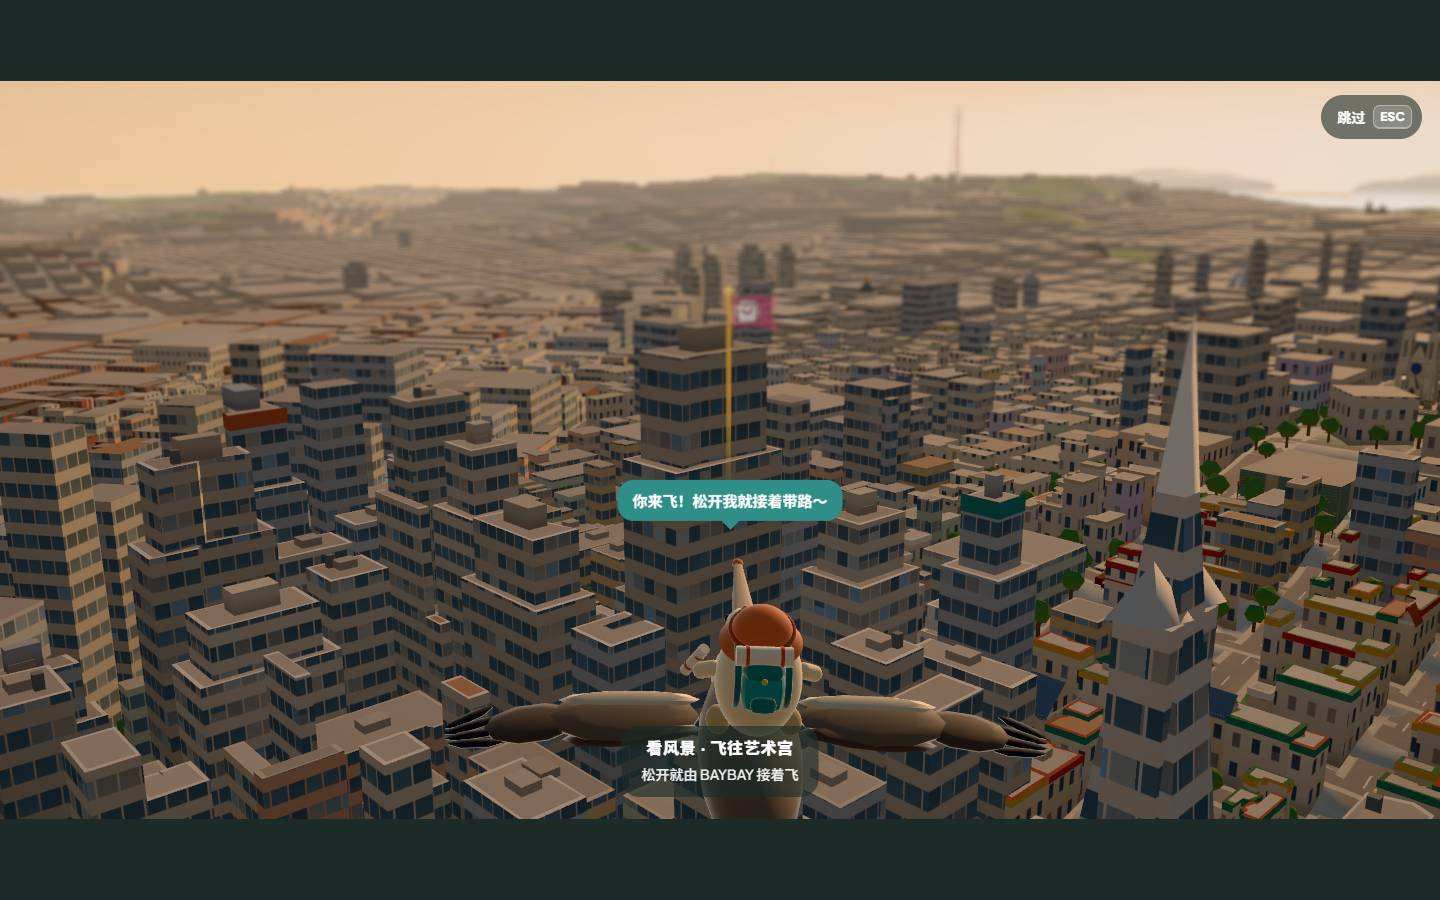
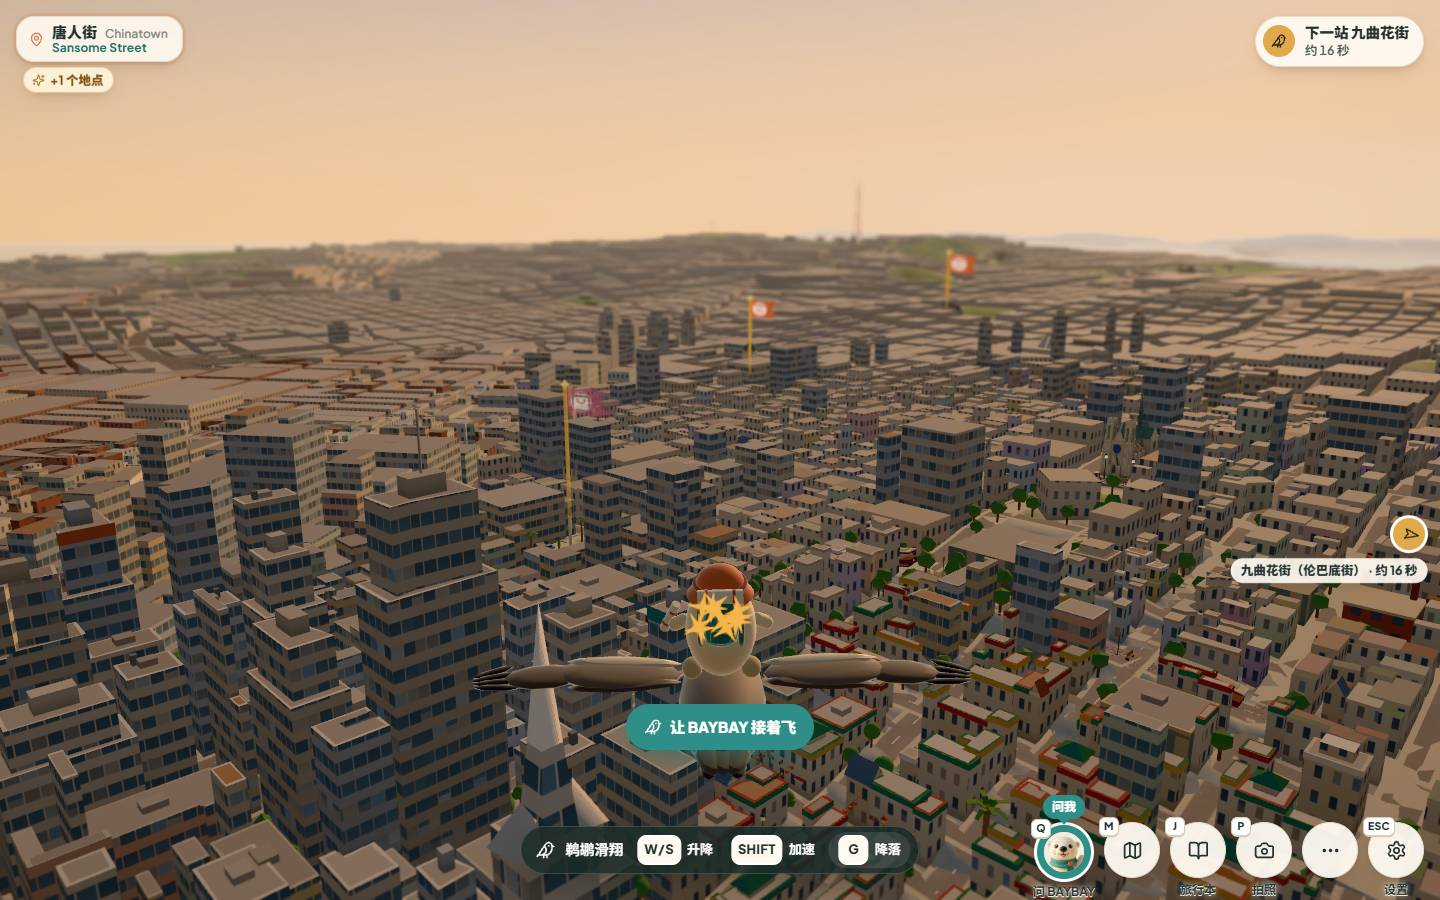
W5-N (part c): report — the scenic flight rides lane F's auto-glide (what was built, evidence on phone and desktop with the takeover chip, decisions, gaps, requests updated), the CP-1 clear-side follow-up; the N9 shots retaken on lane F's glide

diff --git a/docs/opus-bay/sf-w5-N.md b/docs/opus-bay/sf-w5-N.md
@@ -362,8 +362,8 @@ Worktree `C:/Users/willy/wt/w5-n` (branch `w5-n`), dev port 5502, scratch `C:/Us
 
 ### 给主人的摘要
 
-1. 中期检查给 N 线的 4 个问题都修好了：BAYBAY 自动带路时，如果你被推着贴在一辆等你让路的电车旁边（检查时卡了两分半），现在 1 秒后会自己往路边让一步，车开走再接着走；手机地图点地点不会再误开 OpenStreetMap 网页；Fort Point 和野牛围场的终点换到了能走动的地方；左上角地名不再夹英文（「探索馆 · 15 号码头」「科伊特塔 · 电报山」），没有中文名的新地点显示「+1 个地点」。
-2. 新功能「看风景飞过去」：拿到鹈鹕后，150–900 单位远的地方，地图卡片「其他方式」里在「飞过去」下面多一行（渡轮大厦到九曲花街约 25 秒，到艺术宫约 45 秒）。鹈鹕在城市上空低飞、镜头在身后；碰摇杆（电脑按方向键）就自己开，松手 2.5 秒 BAYBAY 接着带，最后稳稳降落在目的地。电脑上按 G 可以就地降落，剩下的路 BAYBAY 带你走；「跳过」就直接快速飞到。原来一键「飞过去」照旧是推荐。
+1. 中期检查给 N 线的 4 个问题都修好了：BAYBAY 自动带路时，如果你被推着贴在一辆等你让路的电车旁边（检查时卡了两分半），现在 1 秒后会自己往路边让一步（避开旁边另一辆车），车开走再接着走；手机地图点地点不会再误开 OpenStreetMap 网页；Fort Point 和野牛围场的终点换到了能走动的地方；左上角地名不再夹英文（「探索馆 · 15 号码头」「科伊特塔 · 电报山」），没有中文名的新地点显示「+1 个地点」。
+2. 新功能「看风景飞过去」：拿到鹈鹕后，150–900 单位远的地方，地图卡片「其他方式」里在「飞过去」下面多一行（渡轮大厦到九曲花街约 25 秒，到艺术宫约 45 秒）。用的是 F 线做好的「鹈鹕自动滑翔」：真正在城市上空低飞，画面、按钮都和平时滑翔一样；碰摇杆（电脑按方向键）就自己开，屏幕上出现「让 BAYBAY 接着飞」，点一下她就接着带；随时可以按「降落」。落地后 BAYBAY 把最后几步带你走到景点。原来一键「飞过去」照旧是推荐。
 3. 顺带接上了 L 线整理的 4 个景点到达点（野牛围场、Buena Vista 公园、Sutro Heights、Seward 滑梯）。自动检查 158 个终点和到达点，卡住的从 3 个降到 1 个（奥布莱恩号，实机能走）。
 4. 手机（390 × 844）和电脑（1440 × 900）都实际跑过、截图看过；测试全部通过（偶尔有一个大家都知道的"机器忙时计时偏慢"的测试失败，单独跑通过）。
 5. 没做：可选的「陪 BAYBAY 散步过去」（要 E 线先给出"今天还没捡的金币小路"的接口，已写在请求里）。
@@ -379,10 +379,11 @@ Worktree `C:/Users/willy/wt/w5-n` (branch `w5-n`), dev port 5502, scratch `C:/Us
   aside (`AutoState.yielding`), BAYBAY says **有车来，我们先让一让～** once, and the walk waits until no vehicle is within
   `YIELD_CLEAR_R` 7 u (at least `YIELD_MIN_MS` 1.5 s, at most `YIELD_MAX_MS` 20 s: a long dwell is walked past), then
   re-issues the leg; the retry counter is not touched meanwhile; the stick is a takeover as ever.
-- `yieldSpot(player, car, stand, toward)`: straight across the car's axis to `YIELD_SIDE` 4.5 u (clear of its 1.4 u
-  band and of the neighbouring track, ≤ 3.8 u apart), on the player's own side when pressed against the body, on the
-  walk's side when clear ahead of the nose (`YIELD_BODY_CLEAR` 5.4 u), else the other side, else nothing (the old
-  behaviour).
+- `yieldSpot(player, car, stand, toward, side, clear)`: straight across the car's axis to `YIELD_SIDE` 4.5 u (clear of
+  its 1.4 u band and of the neighbouring track, ≤ 3.8 u apart), on the player's own side when pressed against the body,
+  on the walk's side when clear ahead of the nose (`YIELD_BODY_CLEAR` 5.4 u), else the other side; a side whose spot
+  keeps `YIELD_OTHER_CLEAR` 2.6 u from every other vehicle's body axis (`vehicleAxisDist`) first — found on Powell St,
+  where the carried walk got squeezed between a waiting cable car and one at its stop on the other track.
 - `tripRun.lineVehicles()` reads every running line vehicle's pose and `held` (cable cars, F-line cars, the sightseeing
   buses, the Metro trains' cars) through `data/transit.ts`; `vehicleYield()` picks the one waiting longest within 24 u.
 
@@ -416,43 +417,42 @@ Worktree `C:/Users/willy/wt/w5-n` (branch `w5-n`), dev port 5502, scratch `C:/Us
 
 **Lane F's request** (`game/hudLayout.ts`): lane A's `.ob-play-result` and `.ob-play-flight` are HUD boxes.
 
-**W5-N9 · 看风景飞过去, the scenic auto-glide** (should; `game/scenicTrip.ts` new, `game/scenicFlight.ts` new,
-`game/fastTravel.ts`, `game/tripRun.ts`, `ui/PlaceActions.tsx`, `ui/tripRows.ts`, `ui/TripOptions.tsx`)
-- The option (`scenicTrip.ts`, tiny and pure): for 150–900 u once the pelican is unlocked, `withScenic` puts a scenic
-  twin right after the fast 飞过去 in the card's 其他方式 / 换个方式 rows — **看风景飞过去 · 低空慢慢飞 · 能自己开**; never
-  推荐, never a goal (a fly row); not counted in the four rows (`orderOptions`), its own React key. Honest time
-  `scenicSeconds(d)` = pickup 0.8 + rise 1.0 + d / 18.5 + landing 2.6 (measured: Ferry → Lombard 360 u in 22.5 s,
-  quoted 约 25 秒; Ferry → the Palace 712 u in 41 s, quoted 约 45 秒). A scenic leg is a `TripFlyLeg` with `scenic: true`
-  (a structural extension: the frozen trip types are untouched).
-- The flight (`scenicFlight.ts`, loaded with the trip runner): `ScenicFlight` flies a `GlideSim` (lane F's flight model:
-  the soft floor over the roofs, the tall structures, the model's edge, the soft boxes) with `scenicPilot` (bank toward
-  the destination, hold `scenicHeight` = soft floor + 14 and ≥ 30 over the ground, lower on the approach; boost on the
-  straight, slow near the end) or with the player's controls: any stick / WASD / pad move flies it (BAYBAY: **你来飞！松开
-  我就接着带路～** once), letting go hands it back after 2.5 s; the caption's second line follows who flies and the device
-  (碰摇杆自己飞 / 方向键自己飞 · G 就地降落 / 松开就由 BAYBAY 接着飞). The camera is the glide rig's framing (14 u behind,
-  pitch 0.3, 10 u ahead), carried by the pelican and eased. Within 45 u of a streamed destination it asks to land; not
-  streamed: it circles up to 8 s, then lands anyway; a destination it cannot reach (a soft box) goes the fast way.
-- The seam (`fastTravel.ts`, the main graph's only growth): `startTravel(dest, scenic?: ScenicDriver)`; the pickup and
-  the rise are the fast hop's (the rise closes on the chase camera); the driver's poses and camera between; the landing
-  is a curve from the pelican onto the arrival spot (`arrivalSpot`, the level guard, `landingHeading`, first sights and
-  `faceOpen` as before; 2–3.2 s); G lands where the pelican is (`landAt`); 跳过 / Esc and the give-up take the fast hop
-  through the cloud; `travelIsScenic()` and the pose's `roll` for lane F.
-- The trip runner: a scenic leg starts `new ScenicFlight(...)` (BAYBAY: **抓紧！我们低低地飞，看看风景～**); a flight that
-  lands farther than `FLY_END_R` 60 u from its leg's end turns the rest into a carried walk (**就在这儿降落啦，我们走过去！**).
+**W5-N9 · 看风景飞过去, the scenic auto-glide** (should, "with F"; `game/scenicTrip.ts` new, `game/tripRun.ts`,
+`game/guideCity.ts`, `ui/PlaceActions.tsx`, `ui/tripRows.ts`, `ui/TripOptions.tsx`, `ui/GoChip.tsx`, `ui/GuideLayer.tsx`)
+- The option (`scenicTrip.ts`, tiny and pure): for 150–900 u (inside lane F's `AUTO_GLIDE` 60–900) once the pelican is
+  unlocked, `withScenic` puts a scenic twin right after the fast 飞过去 in the card's 其他方式 / 换个方式 rows —
+  **看风景飞过去 · 低空慢慢飞 · 能自己开**; never 推荐, never a goal (a fly row); not counted in the four rows
+  (`orderOptions`), its own React key. Honest time `scenicSeconds(d)` = take-off 1 + d / 18.5 + landing 2.5 + the last
+  steps 1.5; a scenic leg is a `TripFlyLeg` with `scenic: true` (a structural extension: the frozen trip types are
+  untouched); the pill counts the flight down from the pelican (`scenicSecondsLeft`, through `legSecondsLeft`: one ETA
+  source).
+- The flight is lane F's W5-F10 `moveApi.autoGlide(to, { onEnd })`, which landed while this part ran: the real glide
+  (its flight model over the roofs, its camera, the HUD with 降落, the pelican's bank), lane F's lines (抓稳，飞咯！ ·
+  坐稳啦～想自己飞，动一下就接管 · 好，你来飞！), a stick push hands the wings over, it lands about 10–20 u out facing open
+  ground.
+- The trip runner: a scenic leg asks `autoGlide` for the leg's end (no N line on top of lane F's two); while lane F's
+  auto-glide flies, or the player glides on after taking the wings, the leg waits; back on foot, within `END_R` it
+  arrived, else BAYBAY walks the rest carried — quietly after lane F's landing, with **就在这儿降落啦，我们走过去！** from a
+  landing more than `FLY_END_R` 60 u away. A take-off refused (the glide locked, out of range) or cancelled before it
+  happens (a dialogue opened) takes the fast hop; 结束 / skip / a replan hand the wings to the player (`cancelAutoGlide`).
+- 让 BAYBAY 接着飞: while the player glides on a scenic flight's taken wings, the go chip (`ui/GoChip` `fly`) offers it;
+  one tap asks lane F's auto-glide again from where the pelican is (`resumeScenicGlide`).
+- Earlier in this part N had built its own driver (a GlideSim flown inside the fast hop's cinematic, with a seam in
+  `game/fastTravel.ts`); once lane F's hook landed that went (its two W5-N9 commits stay in the history; the "rides lane F's auto-glide" commit supersedes them):
+  one auto-glide in the game, `fastTravel.ts` back to origin's, the main graph does not grow for N9.
 
 ### Evidence
 
 - Checks (the structured output has the hashes after the last rebase): `npx tsc -p tsconfig.app.json --noEmit` 0 ·
   `npx eslint .` 0 errors (43 old warnings outside `src/opus-bay`) · `npx tsx --tsconfig tsconfig.app.json --test
-  tests/opus-bay-*.test.ts`: 1228 / 1228 before the first push, 1232 / 1232 on the rebased checkpoint push, 1240 / 1240
-  with W5-N9; on lane V's `cef43f9` 1254 / 1255 — the one failure is lane F's wall-clock assert "a cached cell is cheap"
-  (sf-move2 E2-5), 24 / 24 alone; the final run is in the structured output. `tests/opus-bay-w5-nav.test.ts` 46 → 61:
-  CP-1 (the spot, the reducer's step-aside and wait, the vehicle pick), CP-2 (gesture targets, the credit guard, the
-  wiring), CP-7 (radius, facing, coins, the site arrivals), CP-13 (zh names, the district untouched, the chip), the HUD
-  boxes; W5-N9 (the option, the rows, the autopilot, the flight on a synthetic world with a block of 40 u roofs — never
-  under 4 u over them —, the streaming wait, the takeover and hand-back, G, the soft-box give-up, the trip through the
-  seam with the landing and the lock let go, the bank and `travelIsScenic`, skip, the runner's walk after a far
-  landing). `sf-attractions` / `sf-places` updated for the moved rows.
+  tests/opus-bay-*.test.ts`: 1228 / 1228 before the first push, 1232 / 1232 on the rebased checkpoint push; the final run
+  is in the structured output (lane F's wall-clock assert "a cached cell is cheap", sf-move2 E2-5, failed once under
+  load and passes alone 24 / 24). `tests/opus-bay-w5-nav.test.ts` 46 → 56: CP-1 (the spot, the clear side between two
+  cars, the reducer's step-aside and wait, the vehicle pick), CP-2 (gesture targets, the credit guard, the wiring), CP-7
+  (radius, facing, coins, the site arrivals), CP-13 (zh names, the district untouched, the chip), the HUD boxes; W5-N9
+  (the option inside AUTO_GLIDE, the rows, the countdown, the trip runner with a stub move API: the request, the wait in
+  the air, the quiet walk from a near landing, the walk with the line from a far one, 让 BAYBAY 接着飞, 结束, the fast hop
+  when refused or cancelled). `sf-attractions` / `sf-places` updated for the moved rows.
 - Lane F's static sweep (`sweep-static.mts --only trip-end,arrival`, 158 targets, on this head): **ok 118, CORRIDOR 39,
   BOXED 0, SNAG 0, OFF 0, UNREACHABLE 1** (SS Jeremiah O'Brien, which the checkpoint's live walker passes); part b ended
   at 3 stuck. The first run with Haight's site arrival wired showed it SNAG: kept waiting.
@@ -461,7 +461,9 @@ Worktree `C:/Users/willy/wt/w5-n` (branch `w5-n`), dev port 5502, scratch `C:/Us
   - CP-1: before the fix the player stood pressed against the car's side (the checkpoint's picture). With it, phone and
     desktop alike: the car held 1.2 s → **有车来，我们先让一让～**, the player stepped to (29.5, 1.5), the car left (v 1.6 →
     7.3) and the walk went on toward Lombard a second later (`c-cp1-desktop-yield.jpg`, `c-cp1-desktop-car-passes.jpg`).
-    A carried crossing in front of a waiting westbound car just walks across.
+    A carried crossing in front of a waiting westbound car just walks across. A long carried walk after a scenic
+    landing then got squeezed on Powell St between two cable cars (one held 78 s, 自动跟上 after the retries): the
+    clear-side rule above came from it (unit-tested; not seen again in the next long walk, which passed Powell St).
   - CP-2: the Ferry badge dragged under the spot the lifted credit takes (credit 84, 509, 78 × 12 css), tapped at (123,
     515): **control without the fix** — a second tab on openstreetmap.org/copyright and the game `hidden`; **with the fix**
     — one tab, `visible`, the station's card pinned (`c-cp2-phone-card-no-tab.jpg`); a deliberate tap on the credit 1.5 s
@@ -470,22 +472,21 @@ Worktree `C:/Users/willy/wt/w5-n` (branch `w5-n`), dev port 5502, scratch `C:/Us
     the bison paddock's site arrival on the JFK Drive path with the herd behind the fence (`c-cp7-desktop-bison.jpg`).
     Four 1.5 s pushes from the Palace of Fine Arts' landing: 2.6 (the lagoon) / 8.0 / 3.7 / 9.5 u.
   - CP-13: the pill **探索馆 · 15 号码头** at the Green St stop (`c-cp13-phone-area-pill.jpg`), **科伊特塔 · 电报山** on the Coit
-    plaza; no English find chip.
+    plaza; the find chip **+3 个地点** / **+1 个地点**, no English.
   - W5-N9 phone: 地图 → search 九曲花街 → the pinned card → ⌄ → rows 飞过去 约 6 秒 推荐 · **看风景飞过去 约 25 秒** · 步行 约 1
-    分钟 (`c-n9-phone-rows.jpg`); the flight over North Beach toward the Golden Gate with the gold flag ahead
-    (`c-n9-phone-flight.jpg`); landed on Lombard's trip end (−158.6, 153.4) in 22.5 s. To the Palace (约 45 秒): the stick
-    at 7 s banked it round (**松开就由 BAYBAY 接着飞**), BAYBAY flew on 2.5 s after the release, landed at the Palace's
-    arrival (−409.9, 409.9), 抵达 · 艺术宫 (`c-n9-phone-landed.jpg`). Renderer while flying (quality mid): at most **75
-    calls, 263k triangles**.
-  - W5-N9 desktop: WASD takes over with the bubble (`c-n9-desktop-takeover.jpg`), the hint comes back to **方向键自己飞 · G
-    就地降落**; G over Nob Hill lands at (−46.2, 185.4) and the trip walks on, carried (**就在这儿降落啦，我们走过去！**, pill
-    下一站 艺术宫, chip BAYBAY 带路中, `c-n9-desktop-land-here.jpg`). A clean flight to the Palace: 41 s. Renderer while
-    flying (quality high): at most **94 calls, 342k triangles** (budget 150 / 400k). No new material or program (the
-    pelican, the city and the camera are the glide's). The fast 飞过去 checked again after the change: Coit in 3.8 s with
-    第一次来 · 科伊特塔.
-- Main-graph growth (per-file esbuild minify + gzip, standalone): `game/fastTravel.ts` 2,550 → 3,222 B, `data/cityZones.ts`
-  1,253 → 1,603 B, `game/hudLayout.ts` 1,562 → 1,577 B: ≈ +1.0 KB gzip for lane V to count; `scenicFlight.ts` lives in the
-  trip runner's chunk, `scenicTrip.ts` in the map's and the runner's.
+    分钟 (`c-n9-phone-rows.jpg`); lane F's auto-glide over North Beach toward the Golden Gate, the gold flag ahead, 降落
+    at hand (`c-n9-phone-flight.jpg`); set down 23 s after the tap 4.5 u from Lombard's trip end, the trip arrived. With
+    the stick at 5 s: **让 BAYBAY 接着飞** beside 降落 (`c-n9-phone-fly-on.jpg`), one tap and the pelican flew on, set down
+    at 32 s, BAYBAY walked the last steps, arrived at 43 s (`c-n9-phone-landed.jpg`). To the Palace with the stick and 降落
+    over SoMa: **就在这儿降落啦，我们走过去！** and a carried walk of about 95 s to the Palace. Renderer while gliding
+    (quality mid): at most **85 calls, 303k triangles**.
+  - W5-N9 desktop: WASD at 5 s → 好，你来飞！ and the chip over the glide hint bar (`c-n9-desktop-takeover.jpg`); a click →
+    the auto-glide again, set down at 28 s, the last steps carried, arrived at 35 s. Without a takeover the player
+    glides on straight (lane F's design) until they land or tap the chip. Renderer while gliding (quality high): at most
+    **106 calls, 359k triangles** (budget 150 / 400k); no new material or program (the glide's own).
+- The main graph: `data/cityZones.ts` 1,253 → 1,603 B and `game/hudLayout.ts` 1,562 → 1,577 B (per-file esbuild minify +
+  gzip, standalone): ≈ +0.4 KB gzip for lane V to count; `game/fastTravel.ts` is unchanged; `scenicTrip.ts` sits in the
+  map's and the trip runner's chunks.
 - No real-world fact was added in this part (nothing to source).
 
 ### Decisions
@@ -493,32 +494,29 @@ Worktree `C:/Users/willy/wt/w5-n` (branch `w5-n`), dev port 5502, scratch `C:/Us
 - **CP-1 is fixed in the walker, not in the car.** The car's rule belongs to lane T and is right for a person standing
   on the track; the auto-walk now does what a person does — steps off and lets it pass. The trigger is lane T's own
   `held` signal (≥ 1 s), so a walk that just crosses a track never yields. The side: the player's own (never round the
-  nose) when pressed against the body; toward the walk when clear ahead. A car at its stop that does not hold is only
-  waited for (its dwell is about 5 s; the checkpoint's jam needed the hold).
+  nose) when pressed against the body; toward the walk when clear ahead; never beside another vehicle when a clear side
+  exists. A car at its stop that does not hold is only waited for (its dwell is about 5 s).
 - **CP-2: both fixes**, the swallowed click (the cause) and the credit's guard (any other synthesized click); the licence
   link stays tappable.
 - **CP-13: names, not translation machinery.** Ten hero zones get city names; finds without a zh name say how many, not
   an invented name; the street line stays English (it is the street's sign).
 - **Fort Point moves after all** (part b kept the door): the level guard now keeps a landing off the deck, and the search
   at the fort's own level found an open spot with the fort and the bridge in view.
+- **One auto-glide: lane F's.** The plan's N9 is "with F"; lane F's hook flies the real glide (bank, HUD, 降落 on phones,
+  occlusion-aware camera), so N's own driver was dropped once the hook landed, even though it worked (it flew inside
+  the fast hop's cinematic). N owns the option, the trip's legs and the hand-back chip.
 - **The scenic flight is a choice, not the default.** 飞过去 stays the one-tap 推荐 (F4); the scenic row is the slow,
-  pretty way for whoever wants it, and its time says so. It is flown by the same flight model as the free glide
-  (instantiated, not modified), so the pelican never passes through a roof, a tower or a soft box.
-- **Takeover means steering; the destination stays.** Letting go hands the pelican back and the trip still ends at the
-  destination; G (desktop) is "land here"; 跳过 is the fast way. Phones have no "land here" yet (lane F's 降落 button is
-  hidden in a cinematic: Request, with the seam ready).
-- **The scenic part stays out of GameRoot's graph** except the driver seam in `fastTravel.ts` (+0.7 KB gzip).
+  pretty way for whoever wants it, and its time says so.
+- **Taking the wings keeps the trip.** The destination, the pill and the waypoint stay; 让 BAYBAY 接着飞 hands the wings
+  back (a tap, not a timer: lane F says 好，你来飞！ and means it); landing anywhere turns the rest into BAYBAY's walk.
 - **The could (陪 BAYBAY 散步过去) is not built**: "the day's coin trail" is lane E's live state (which coins are still
   there today) and E's public API has no trail hint; a stroll that leads to coins already picked would be worse than none.
 
 ### Known gaps
 
-- A phone cannot land where it is during a scenic flight (lane F: TouchControls' 降落 in a cinematic, `travelIsScenic()`).
-- The scenic pelican does not bank yet (lane F's `flyTravel` sets its roll from the pose's phase; the pose now carries
-  `roll`).
 - With the running trip's mode 'fly', both fly rows show as pressed in 换个方式 (`picked` is a mode).
-- New BAYBAY lines without a recorded voice (lane V's binder is text-matched): 有车来，我们先让一让～ · 你来飞！松开我就接着带路～ ·
-  抓紧！我们低低地飞，看看风景～ · 就在这儿降落啦，我们走过去！
+- After lane F's landing the camera frames Lombard's houses more than the zigzag (part b's gap: an arrival camera).
+- New BAYBAY lines without a recorded voice (lane V's binder is text-matched): 有车来，我们先让一让～ · 就在这儿降落啦，我们走过去！
 - SS Jeremiah O'Brien stays UNREACHABLE in the static sweep (passes live).
 - Dev server only: after HMR the probes' bare `import()` of a module on an HMR chain is a second instance
   (`flow.endTrip` did nothing from the console once); `window.__opusBay.actions` / `.fastTravel` are the app's.
@@ -535,11 +533,10 @@ Worktree `C:/Users/willy/wt/w5-n` (branch `w5-n`), dev port 5502, scratch `C:/Us
 - **T** (`world/flineSystem.ts onTrackAhead`, and the same test in `world/transitLine.ts`, `world/busSystem.ts`,
   `world/lightRail.ts` if they share it): a person beside the car's body is not "on the track ahead" — `along - FL.half`
   below 0 means beside the front half, and the car then holds for good while the person is pressed against its side (the
-  checkpoint's 72 s). Suggest `return along > FL.half && along < 16 && side < 1.4 ? along - FL.half : null;` (N's walker
-  steps aside after 1 s either way).
-- **F** (`actors/TouchControls.tsx`): show 降落 while `travelIsScenic()` (game/fastTravel), `onPress={() => {
-  input.glideCount++; }}` — it lands the scenic pelican where it is, as G does on a keyboard; (`actors/moveSystem.ts
-  flyTravel`): `g.roll = pose.roll ?? <today's wobble>` so the scenic pelican banks into its turns.
+  checkpoint's 72 s; the cable car on Powell St held 78 s). Suggest `return along > FL.half && along < 16 && side < 1.4 ?
+  along - FL.half : null;` (N's walker steps aside after 1 s either way).
+- **F**: nothing needed for N9 (the hook works as documented). Optional: a gentle "BAYBAY 接着飞" after the player lets
+  go for a while could live in the glide itself; N offers it as a chip for now.
 - **E**: a trail hint for the stroll option — e.g. `registerHintSource('trail', …)` ('trail' in HINT_KINDS, not in
   COMPASS_KINDS) listing today's trails with coins still to pick (`{ id: '<trail>', x, z }` of the first one left, and
   how many); N then offers 陪 BAYBAY 散步过去 along the nearest one on the way.
@@ -547,7 +544,7 @@ Worktree `C:/Users/willy/wt/w5-n` (branch `w5-n`), dev port 5502, scratch `C:/Us
   Irving St's as before.
 - **C** (`data/pois.ts` barks shown in the city): English in zh bubbles — Exploratorium 里全是能动手玩的实验…, 这一站就在
   Exploratorium 门口… (探索馆).
-- **V**: the main graph grows by ≈ 1.0 KB gzip (above); the four new BAYBAY lines if they should be voiced.
+- **V**: the main graph grows by ≈ 0.4 KB gzip (above); the two new BAYBAY lines if they should be voiced.
 - **Lead**: none frozen.
 
-Status (zh): 第五波 N 线 part c 完成：中期检查 4 个问题（让车、地图误开网页、两个终点、英文地名）已修并推送；「看风景飞过去」已上线（手机和电脑都实测）；散步选项等 E 线接口。
+Status (zh): 第五波 N 线 part c 完成：中期检查 4 个问题（让车、地图误开网页、两个终点、英文地名）已修并推送；「看风景飞过去」用 F 线的自动滑翔上线（手机和电脑都实测）；散步选项等 E 线接口。
